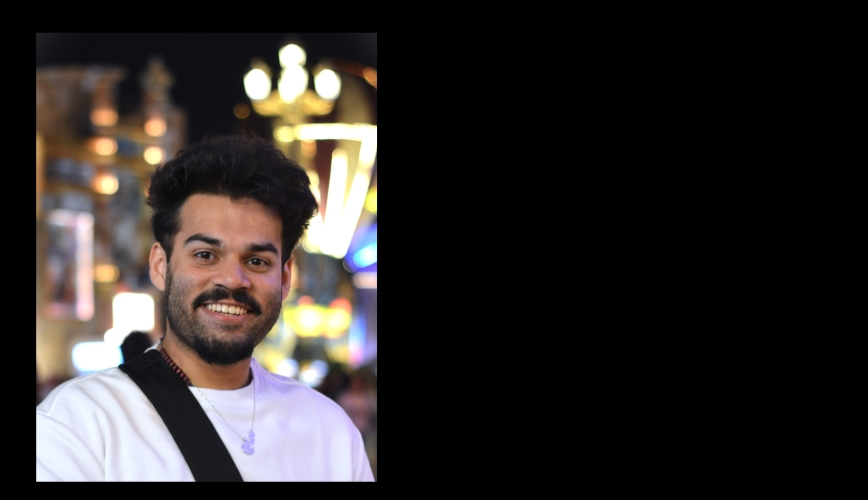
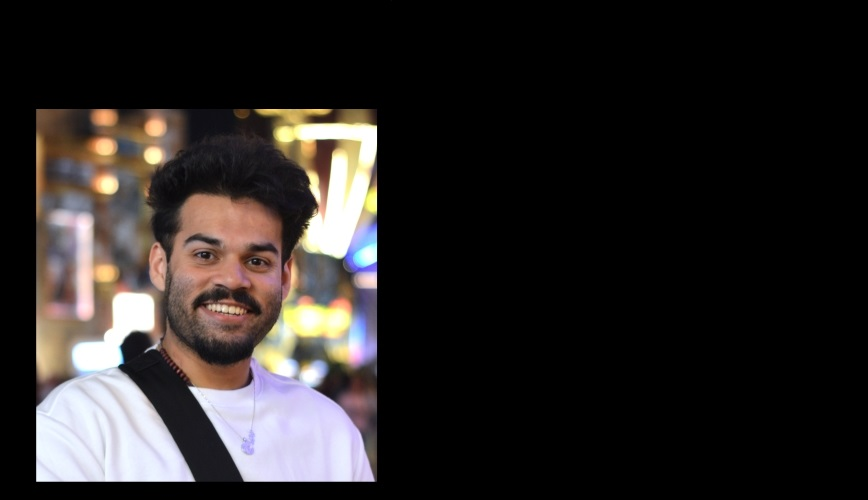
backkground image adjusted

Changed region(s): [[0.28, 0.06, 0.4355, 0.24], [0.0311, 0.06, 0.2177, 0.24]]

diff --git a/css/style.css b/css/style.css
@@ -10,9 +10,11 @@ body{
 #header{
     width: 100%;
     height: 100vh;
-    background-image:url(/images/background.jpg);
+    background-image:url(../images/background.jpg);
     background-size: cover;
-    background-position: center;
+    background-position:left;
+    background-repeat: no-repeat;
+    margin-right : 50px ;
     }
 
 .container{
@@ -58,6 +60,7 @@ nav ul li a:hover::after{
     color: aliceblue;
     margin-top: 20%;
     font-size: 30px;
+    margin-left: 50%;
 
 }
 .header-text h1{

diff --git a/index.html b/index.html
@@ -39,8 +39,7 @@
         <div class="header-text">
           <h1> Hi, I'm Victor Dsouza </h1>
           <p>Front-End Web Developer </p>
-         
-        </div>
+          </div>
     </div>
 
   </div>
